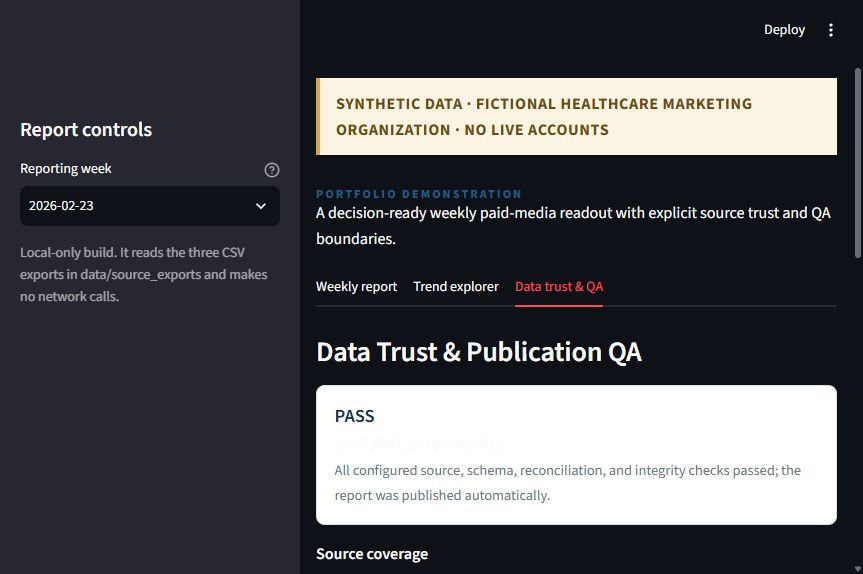
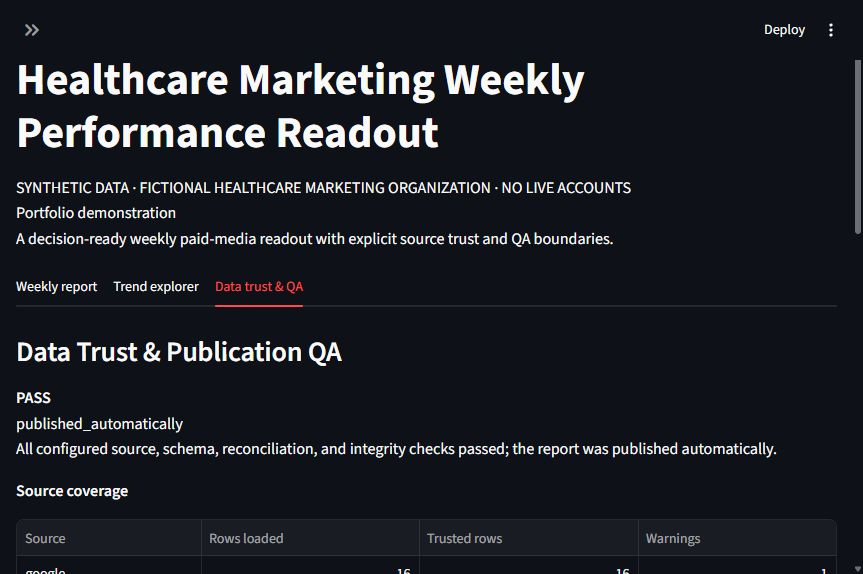
Restore readable default theme and KPI delta colors

diff --git a/app.py b/app.py
@@ -34,31 +34,6 @@ st.set_page_config(
     initial_sidebar_state="expanded",
 )
 
-st.markdown(
-    """
-    <style>
-    :root { --navy: #12304a; --ink: #17324d; --muted: #617486; --line: #d9e2e8; --gold: #d9a441; --cream: #fbf4e2; }
-    .block-container { max-width: 1320px; padding-top: 2.2rem; padding-bottom: 3rem; }
-    h1, h2, h3 { color: var(--navy); letter-spacing: -0.02em; }
-    h1 { font-size: 2.65rem !important; }
-    h2 { margin-top: 1.6rem !important; }
-    .synthetic-banner { background: var(--cream); border-left: 4px solid var(--gold); color: #6b4c15; padding: .8rem 1rem; font-weight: 700; letter-spacing: .04em; margin: .6rem 0 1.8rem; }
-    .eyebrow { color: #1f5b82; font-size: .76rem; font-weight: 800; letter-spacing: .17em; text-transform: uppercase; margin-bottom: -.35rem; }
-    .scope-note { color: var(--muted); font-size: .9rem; line-height: 1.55; }
-    .qa-card { border: 1px solid var(--line); border-radius: .55rem; padding: 1rem 1.1rem; background: #fff; min-height: 7.2rem; }
-    .qa-card strong { color: var(--navy); font-size: 1.15rem; }
-    .qa-pass { color: #1f6b4d; }
-    .qa-warning { color: #946c1c; }
-    .qa-review { color: #a45135; }
-    [data-testid="stMetricValue"] { color: var(--navy); }
-    [data-testid="stMetricLabel"] { color: #4b6479; }
-    .stDataFrame { border: 1px solid var(--line); }
-    </style>
-    """,
-    unsafe_allow_html=True,
-)
-
-
 def _currency(value: Any) -> str:
     return "N/A" if value is None else f"${float(value):,.2f}"
 
@@ -146,7 +121,7 @@ with report_tab:
         cols = st.columns(3)
         for column, (label, key, kind, note) in zip(cols, KPI_DEFINITIONS[start : start + 3]):
             with column:
-                st.metric(label, _display(readout["current_metrics"].get(key), kind), _delta(readout["changes"][key]), delta_color="off")
+                st.metric(label, _display(readout["current_metrics"].get(key), kind), _delta(readout["changes"][key]), delta_color="normal")
                 st.caption(note)
 
     st.subheader("Channel Performance")

diff --git a/tests/test_public_build.py b/tests/test_public_build.py
@@ -54,6 +54,13 @@ class PublicBuildTests(unittest.TestCase):
         self.assertEqual(len(series), len(self.dataset.week_starts))
         self.assertTrue(all(item["trusted_row_count"] > 0 for item in series))
 
+    def test_public_surface_keeps_default_readable_theme_and_colored_deltas(self) -> None:
+        app_source = (PROJECT_ROOT / "app.py").read_text(encoding="utf-8")
+        self.assertNotIn("--navy", app_source)
+        self.assertNotIn("--gold", app_source)
+        self.assertNotIn('delta_color="off"', app_source)
+        self.assertIn('delta_color="normal"', app_source)
+
 
 if __name__ == "__main__":
     unittest.main()
